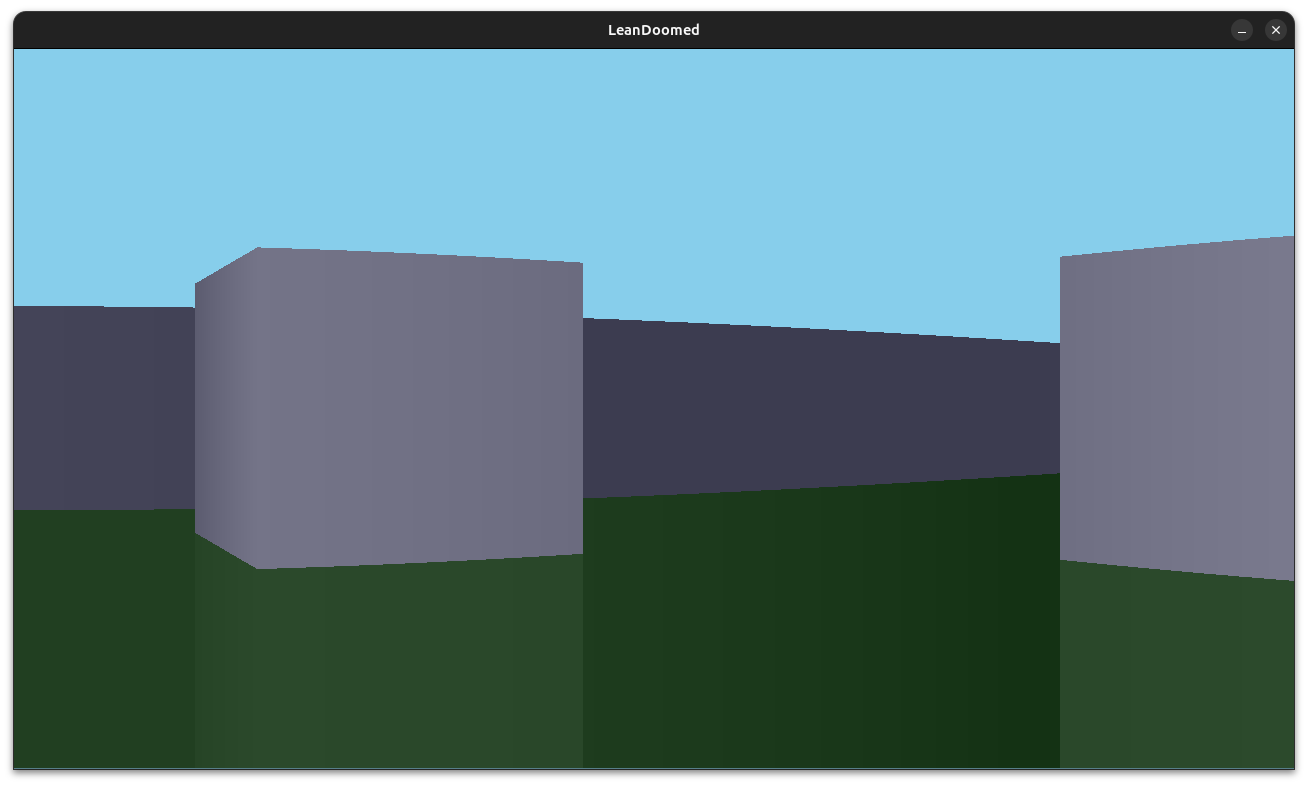
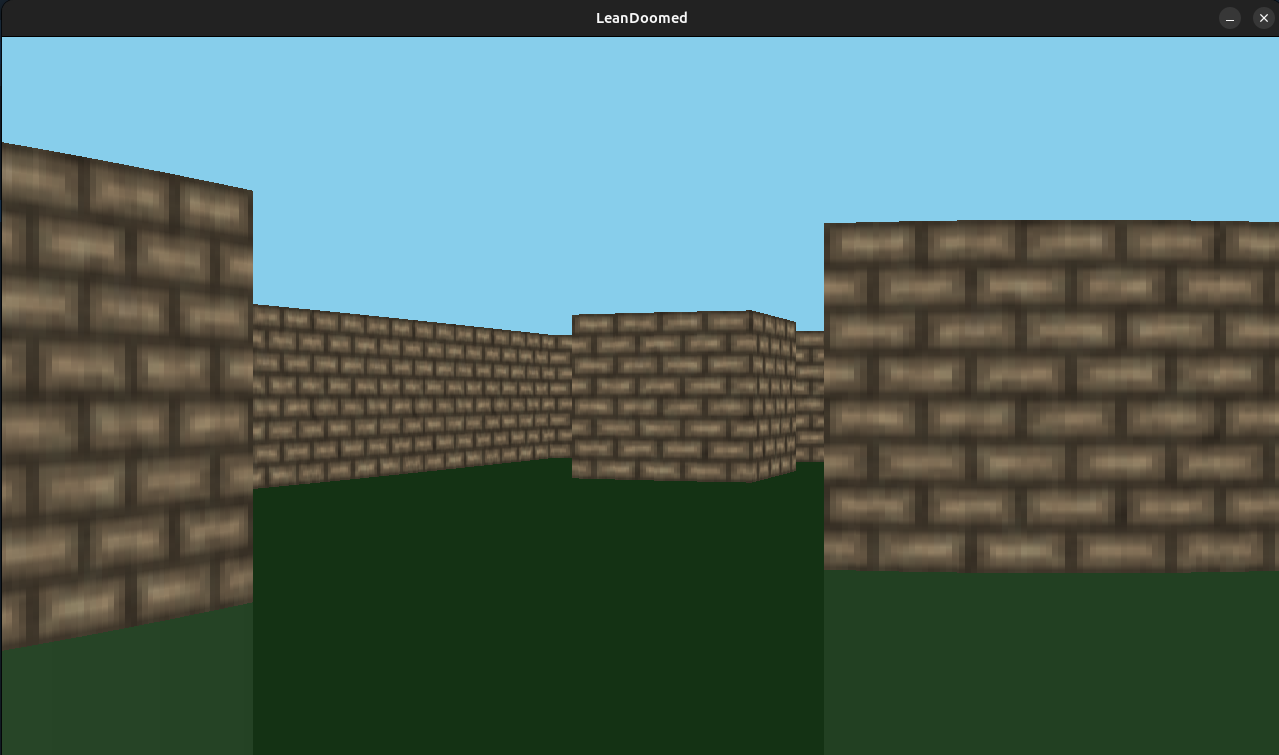
[feature] Support for a single wall texture

diff --git a/c/sdl.c b/c/sdl.c
@@ -5,12 +5,7 @@
 
 static SDL_Window* g_window = NULL;
 static SDL_Renderer* g_renderer = NULL;
-
-uint32_t sdl_get_version(void) {
-    // from https://wiki.libsdl.org/SDL3/SDL_GetVersion
-    const int linked = SDL_GetVersion();  /* reported by linked SDL library */
-    return SDL_VERSIONNUM_MAJOR(linked) * 100 + SDL_VERSIONNUM_MINOR(linked) * 10 + SDL_VERSIONNUM_MICRO(linked);
-}
+static SDL_Texture* g_wall_texture = NULL;
 
 lean_obj_res sdl_init(uint32_t flags, lean_obj_arg w) {
     int32_t result = SDL_Init(flags);
@@ -18,6 +13,10 @@ lean_obj_res sdl_init(uint32_t flags, lean_obj_arg w) {
 }
 
 lean_obj_res sdl_quit(lean_obj_arg w) {
+    if (g_wall_texture) {
+        SDL_DestroyTexture(g_wall_texture);
+        g_wall_texture = NULL;
+    }
     if (g_renderer) {
         SDL_DestroyRenderer(g_renderer);
         g_renderer = NULL;
@@ -98,4 +97,39 @@ lean_obj_res sdl_get_key_state(uint32_t scancode, lean_obj_arg w) {
     const uint8_t* state = SDL_GetKeyboardState(NULL);
     uint8_t pressed = state[scancode];
     return lean_io_result_mk_ok(lean_box(pressed));
+}
+
+// TEXTURE SUPPORT
+// Assuming 64x64 texture
+lean_obj_res sdl_load_texture(lean_obj_arg filename, lean_obj_arg w) {
+    const char* filename_str = lean_string_cstr(filename);
+    SDL_Surface* surface = IMG_Load(filename_str);
+    if (!surface) {
+        SDL_Log("C: Failed to load texture: %s\n", SDL_GetError());
+        return lean_io_result_mk_ok(lean_box(0));
+    }
+
+    if (g_wall_texture) SDL_DestroyTexture(g_wall_texture);
+    g_wall_texture = SDL_CreateTextureFromSurface(g_renderer, surface);
+    SDL_DestroySurface(surface);
+
+    if (!g_wall_texture) {
+        SDL_Log("C: Failed to create texture: %s\n", SDL_GetError());
+        return lean_io_result_mk_ok(lean_box(0));
+    }
+
+    return lean_io_result_mk_ok(lean_box(1));
+}
+
+lean_obj_res sdl_render_texture_column(uint32_t dst_x, uint32_t dst_y, uint32_t dst_height, uint32_t src_x, uint32_t src_y_start, uint32_t src_y_end, lean_obj_arg w) {
+    if (!g_renderer || !g_wall_texture) return lean_io_result_mk_ok(lean_box_uint32(-1));
+
+    uint32_t tex_y_start = src_y_start >= 64 ? 0 : src_y_start;
+    uint32_t tex_y_end = src_y_end > 64 ? 64 : src_y_end;
+    if (tex_y_end <= tex_y_start) tex_y_end = tex_y_start + 1;
+
+    SDL_FRect src_rect = {(float)(src_x % 64), (float)tex_y_start, 1.0f, (float)(tex_y_end - tex_y_start)};
+    SDL_FRect dst_rect = {(float)dst_x, (float)dst_y, 1.0f, (float)dst_height};
+
+    return lean_io_result_mk_ok(lean_box_uint32(SDL_RenderTexture(g_renderer, g_wall_texture, &src_rect, &dst_rect)));
 }

diff --git a/README.md b/README.md
@@ -36,6 +36,8 @@ For more information on MSYS2, see: https://github.com/leanprover/lean4/blob/mas
 
 Next, follow the instructions for Unix above.
 
-## License
+## License & Attribution
 
 MIT
+
+Wall texture by [FacadeGaikan](https://opengameart.org/node/31075), licensed under CC0.
